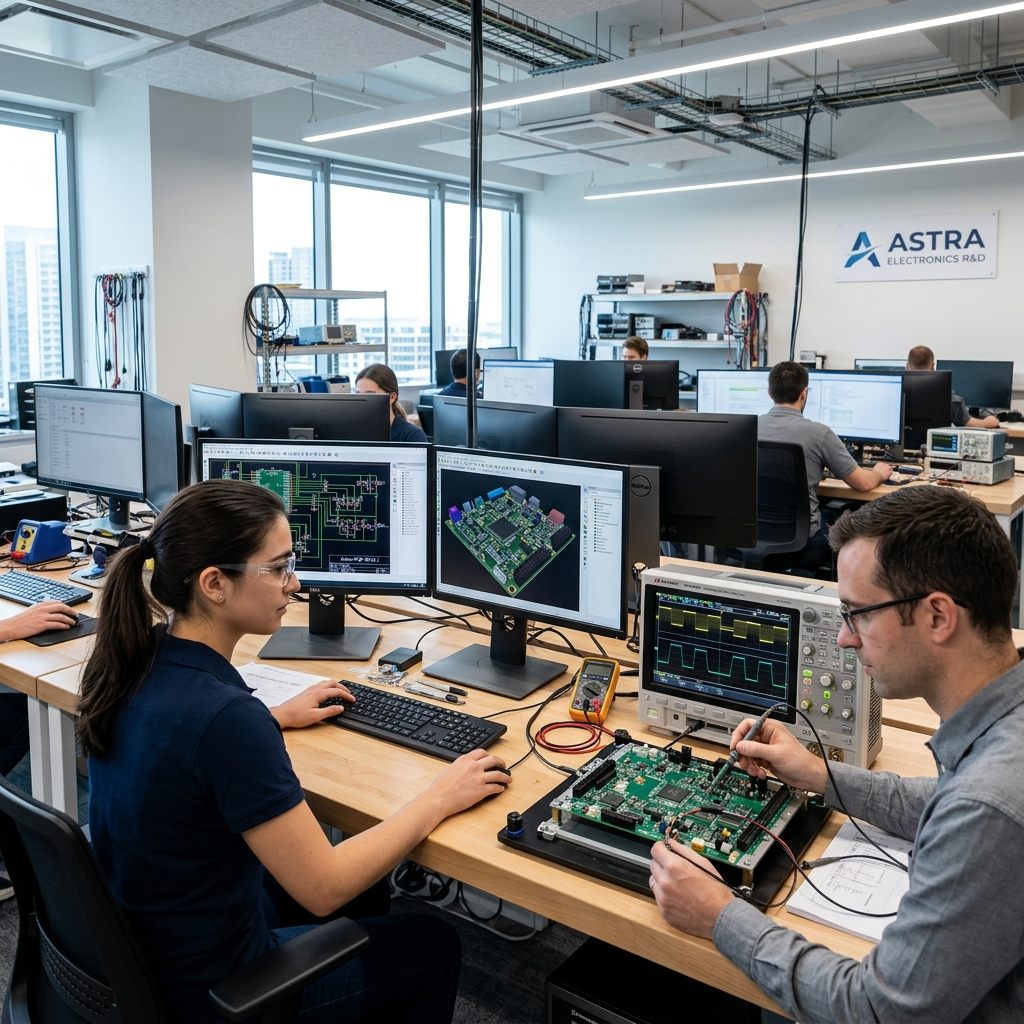
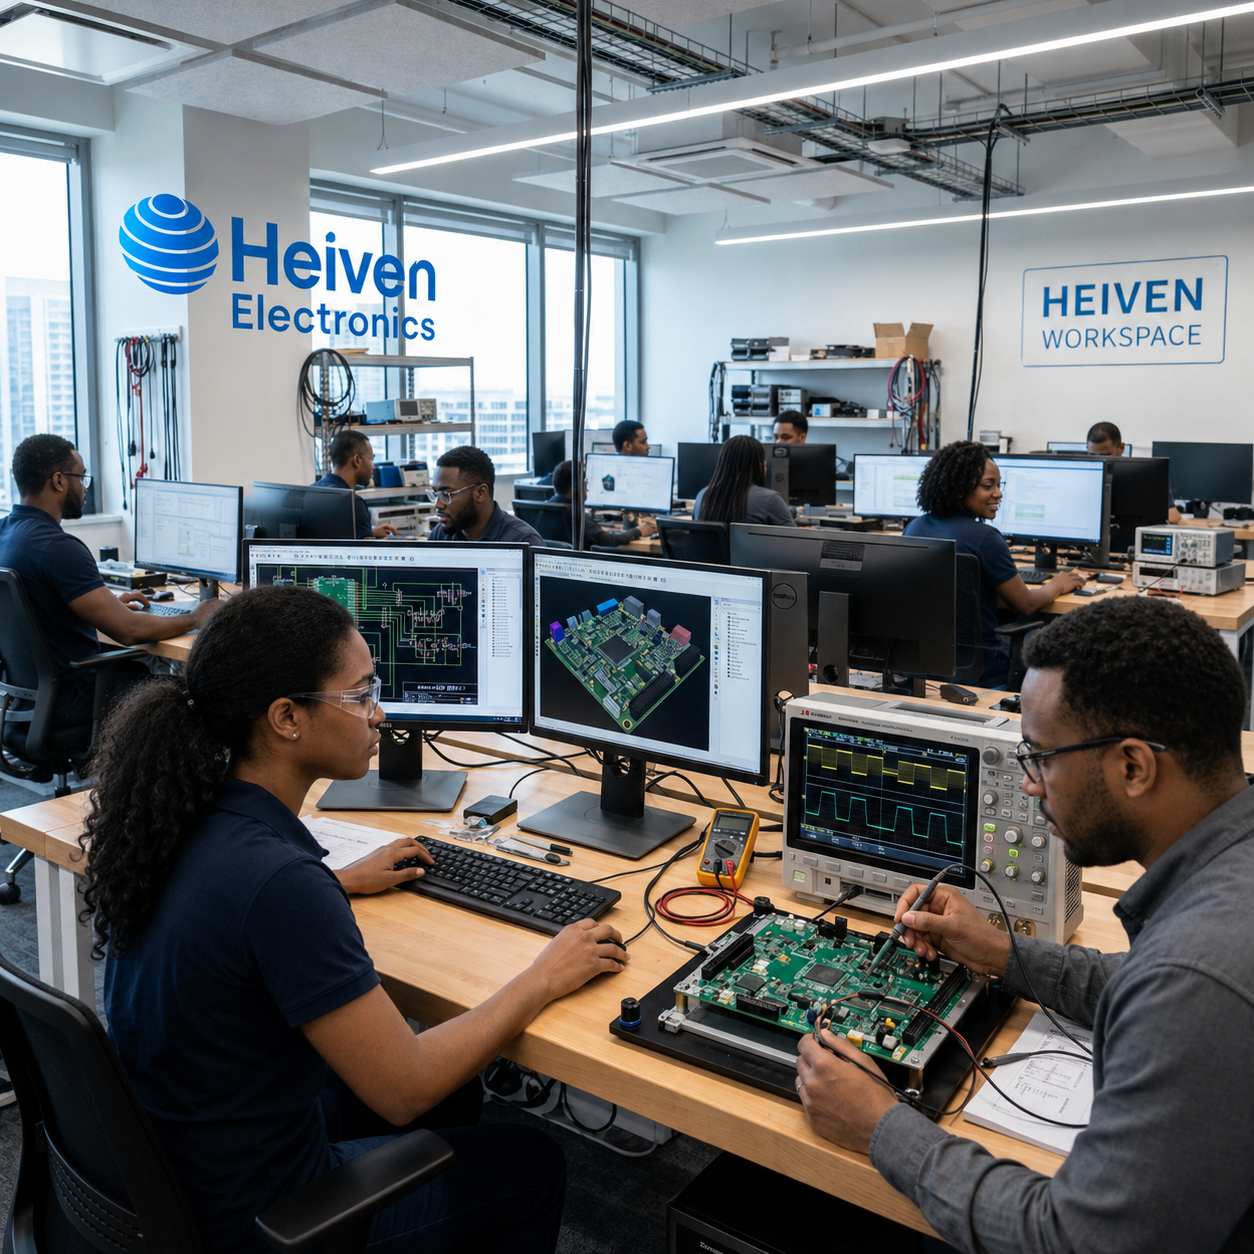
added mr CEO polished

diff --git a/src/components/shared/EcosystemSuggestions.jsx b/src/components/shared/EcosystemSuggestions.jsx
@@ -13,10 +13,10 @@ export default function EcosystemSuggestions() {
         initial={{ opacity: 0, x: 50 }}
         animate={{ opacity: 1, x: 0 }}
         transition={{ duration: 0.5, delay: 0.1 }}
-        className="pointer-events-auto flex items-center gap-2.5 px-6 py-3.5 bg-neutral-950 text-white rounded-full hover:scale-105 active:scale-95 transition-all duration-300 shadow-lg shadow-black/35 font-heading text-sm font-bold tracking-wide border border-neutral-800"
+        className="pointer-events-auto flex items-center gap-2.5 px-6 py-3.5 bg-[#29ABE2] hover:bg-[#29ABE2]/90 text-white rounded-full hover:scale-105 active:scale-95 transition-all duration-300 shadow-lg shadow-[#29ABE2]/20 font-heading text-sm font-bold tracking-wide"
       >
-        <Globe className="w-4 h-4 text-sky-400" />
-        <span>Main Site</span>
+        <Globe className="w-4 h-4" />
+        <span>You wanna know us more?</span>
       </motion.a>
 
       {/* Heiven Fiber Button */}
@@ -27,10 +27,10 @@ export default function EcosystemSuggestions() {
         initial={{ opacity: 0, x: 50 }}
         animate={{ opacity: 1, x: 0 }}
         transition={{ duration: 0.5, delay: 0.2 }}
-        className="pointer-events-auto flex items-center gap-2.5 px-6 py-3.5 bg-sky-500 hover:bg-sky-400 text-white rounded-full hover:scale-105 active:scale-95 transition-all duration-300 shadow-lg shadow-sky-500/20 font-heading text-sm font-bold tracking-wide"
+        className="pointer-events-auto flex items-center gap-2.5 px-6 py-3.5 bg-[#29ABE2] hover:bg-[#29ABE2]/90 text-white rounded-full hover:scale-105 active:scale-95 transition-all duration-300 shadow-lg shadow-[#29ABE2]/20 font-heading text-sm font-bold tracking-wide"
       >
         <Wifi className="w-4 h-4" />
-        <span>Heiven Fiber</span>
+        <span>You wanna buy fibers?</span>
       </motion.a>
     </div>
   );

diff --git a/src/pages/Energy.jsx b/src/pages/Energy.jsx
@@ -9,10 +9,10 @@ import PageTransition from "@/components/shared/PageTransition";
 
 // Hero: solar farm / field engineer
 const HERO_IMAGE =
-  "https://media.base44.com/images/public/6a305098afe0751767e21de8/3f9bc6eb8_generated_image.png";
+  "/images/energy_truck.jpeg";
 // Vision/Mission: energy control room branded Heiven Energy
 const TEAM_IMAGE =
-  "https://media.base44.com/images/public/6a305098afe0751767e21de8/0e8d49a09_generated_image.png";
+  "/images/energy_firms.jpeg";
 
 const BLUE = "#29ABE2";
 

diff --git a/src/pages/Minerals.jsx b/src/pages/Minerals.jsx
@@ -12,10 +12,10 @@ import { Shield, Droplets, Leaf, Users, ChevronRight } from "lucide-react";
 
 // Hero: open-pit mine / geologist field
 const HERO_IMAGE =
-  "https://media.base44.com/images/public/6a305098afe0751767e21de8/0fa2d0189_generated_image.png";
+  "/images/mining_railway.jpeg";
 // Vision/Mission: mineral lab branded Heiven Minerals
 const TEAM_IMAGE =
-  "https://media.base44.com/images/public/6a305098afe0751767e21de8/878dcdfcc_generated_image.png";
+  "/images/mine_truck.jpeg";
 
 const BLUE = "#29ABE2";
 